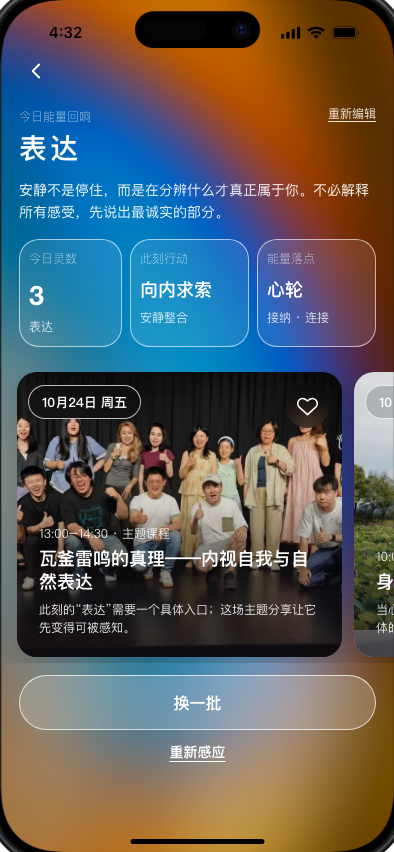
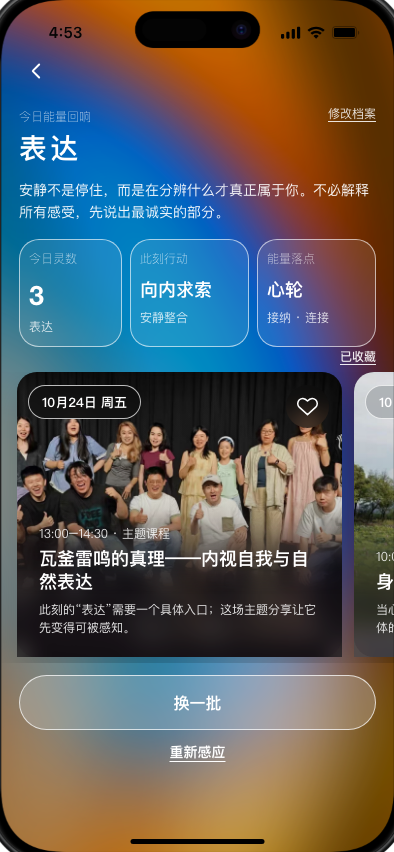
Refine result actions and recommendation rotation

diff --git a/haf-energy-journey-h5/src/Prototype.tsx b/haf-energy-journey-h5/src/Prototype.tsx
@@ -550,6 +550,14 @@ function recommendCourses(
     ? 1
     : insight.poles.active > insight.poles.calm ? 0.5 : 0;
   const targetDuration = targetIntensity === 1 ? 90 : targetIntensity === 0.5 ? 60 : 30;
+  const freshCourses = activeCourses.filter((course) => !recentIds.has(course.course_id));
+  const recentOrder = new Map([...recentIds].map((id, index) => [id, index]));
+  const rolloverCourses = activeCourses
+    .filter((course) => recentIds.has(course.course_id))
+    .sort((a, b) => (recentOrder.get(a.course_id) ?? 0) - (recentOrder.get(b.course_id) ?? 0));
+  const candidateCourses = freshCourses.length >= 3
+    ? freshCourses
+    : [...freshCourses, ...rolloverCourses.slice(0, Math.max(12, 3 - freshCourses.length))];
   const scoreCourse = (course: CatalogCourse) => {
     const primaryMatch = course.chakra_tags.includes(insight.primaryChakra.id) ? 1 : 0;
     const secondaryMatch = course.chakra_tags.includes(insight.secondaryChakra.id) ? 1 : 0;
@@ -572,7 +580,7 @@ function recommendCourses(
     const recencyFit = recentIds.has(course.course_id) ? 0 : 1;
     return 0.35 * chakraScore + 0.25 * compassScore + 0.2 * numerologyScore + 0.1 * practiceFit + 0.1 * recencyFit;
   };
-  const candidates = activeCourses.map((course) => ({ course, score: scoreCourse(course) }));
+  const candidates = candidateCourses.map((course) => ({ course, score: scoreCourse(course) }));
   const selected: CatalogCourse[] = [];
   while (selected.length < 2 && candidates.length) {
     const ranked = candidates.map((candidate) => {
@@ -619,6 +627,12 @@ function recommendCourses(
       image: course.cover_asset,
     };
   });
+}
+
+function appendCourseHistory(history: Iterable<string>, courseIds: string[]) {
+  const currentIds = new Set(courseIds);
+  const next = [...[...history].filter((id) => !currentIds.has(id)), ...courseIds];
+  return next.slice(-activeCourses.length);
 }
 
 function loadLocal<T>(key: string, fallback: T): T {
@@ -1147,11 +1161,12 @@ function ResultScreen() {
   );
 
   useEffect(() => {
-    window.localStorage.setItem(recentCourseStorageKey, JSON.stringify(orderedCourses.map((course) => course.id)));
-  }, [orderedCourses]);
+    const history = appendCourseHistory(recentCourseIds, orderedCourses.map((course) => course.id));
+    window.localStorage.setItem(recentCourseStorageKey, JSON.stringify(history));
+  }, [orderedCourses, recentCourseIds]);
 
   const refreshCourses = () => {
-    setRecentCourseIds((previous) => new Set([...previous, ...orderedCourses.map((course) => course.id)]));
+    setRecentCourseIds((previous) => new Set(appendCourseHistory(previous, orderedCourses.map((course) => course.id))));
     setBatch((value) => value + 1);
   };
 
@@ -1162,8 +1177,7 @@ function ResultScreen() {
           <img src="/assets/haf/visual-refresh/back-chevron.svg" alt="" />
         </button>
         <div className="result-top-actions">
-          <button onClick={() => flow.push(makeScreen("profile"))}>重新编辑</button>
-          {favorites.length > 0 && <button onClick={() => flow.push(makeScreen("favorites"))}>已收藏 {favorites.length}</button>}
+          <button onClick={() => flow.push(makeScreen("profile"))}>修改档案</button>
         </div>
         <section className="result-insight">
           <div className="result-copy">
@@ -1179,13 +1193,17 @@ function ResultScreen() {
         </section>
         <section className="recommendations">
           <h2 className="visually-hidden">此刻与你契合的体验</h2>
+          <button className="recommendation-saved" onClick={() => flow.push(makeScreen("favorites"))}>
+            已收藏{favorites.length > 0 ? ` ${favorites.length}` : ""}
+          </button>
           <Carousel className="course-rail" contentClassName="course-track" ariaLabel="此刻与你契合的体验">
             {orderedCourses.map((course) => {
               const saved = favorites.includes(course.id);
               return (
-                <article className="course-card" data-testid="course-card" key={course.id}>
+                <article className="course-card" data-testid="course-card" data-course-id={course.id} key={course.id}>
                   <img className="course-visual" src={course.image} alt="" />
                   <div className="course-shade" aria-hidden="true" />
+                  <div className="course-copy-haze" aria-hidden="true" />
                   <small className="course-date-pill">{course.dateLabel}</small>
                   <button className={`course-heart ${saved ? "saved" : ""}`} onClick={() => toggleFavorite(course.id)} aria-label={`${saved ? "取消收藏" : "收藏"}${course.title}`}>
                     <img src="/assets/haf/visual-refresh/heart-outline.svg" alt="" />

diff --git a/haf-energy-journey-h5/src/prototype.css b/haf-energy-journey-h5/src/prototype.css
@@ -190,11 +190,13 @@ button { font: inherit; -webkit-tap-highlight-color: transparent; }
 .energy-facets > span:first-child strong { font-family: "Graphik", "Helvetica Neue", Arial, sans-serif; font-size: 27px; }
 .energy-facets em { margin-top: 9px; color: rgba(255,255,255,.78); font-size: 12px; }
 .recommendations { position: relative; z-index: 4; height: 285px; flex: 0 0 285px; margin-top: 8px; }
+.recommendation-saved { position: absolute; z-index: 8; top: -24px; right: 18px; padding: 0; border: 0; background: transparent; color: rgba(255,255,255,.9); font-size: 12px; font-weight: 420; text-decoration: underline; text-underline-offset: 3px; }
 .course-rail { width: 100%; }
 .course-track { display: flex; gap: 12px; padding: 0 16px 6px; }
 .course-card { position: relative; flex: 0 0 325px; height: 285px; padding: 0; box-sizing: border-box; overflow: hidden; border: 0; border-radius: 20px; background: rgba(23,29,35,.52); box-shadow: 0 16px 34px rgba(0,0,0,.2); }
 .course-card > .course-visual { position: absolute; inset: 0; width: 100%; height: 100%; border-radius: 0; object-fit: cover; }
 .course-shade { position: absolute; inset: 0; background: linear-gradient(to bottom, rgba(0,0,0,.02) 22%, rgba(0,0,0,.12) 43%, rgba(19,15,20,.76) 100%); }
+.course-copy-haze { position: absolute; z-index: 2; right: 0; bottom: 0; left: 0; height: 49%; background: rgba(31,24,31,.18); box-shadow: 0 -24px 38px rgba(224,218,217,.11); backdrop-filter: blur(11px) saturate(.78); -webkit-backdrop-filter: blur(11px) saturate(.78); -webkit-mask-image: linear-gradient(to bottom, transparent 0%, rgba(0,0,0,.72) 28%, #000 55%); mask-image: linear-gradient(to bottom, transparent 0%, rgba(0,0,0,.72) 28%, #000 55%); }
 .course-date-pill { position: absolute; z-index: 3; top: 13px; left: 11px; padding: 7px 13px; border: 1px solid rgba(255,255,255,.72); border-radius: 999px; background: rgba(0,0,0,.16); color: white; font-size: 13px; font-weight: 520; backdrop-filter: blur(12px); }
 .course-heart { position: absolute; z-index: 4; top: 13px; right: 13px; width: 43px; height: 43px; padding: 11px; border: 0; border-radius: 50%; background: rgba(0,0,0,.18); display: grid; place-items: center; backdrop-filter: blur(12px); }
 .course-heart.saved { background: rgba(183,92,95,.74); box-shadow: 0 0 18px rgba(255,147,143,.32); }

diff --git a/haf-energy-journey-h5/design-qa.md b/haf-energy-journey-h5/design-qa.md
@@ -12,12 +12,14 @@
 - Pass 1: normalized the old 700px embedded layout against the 393 × 852 sources. Found the former top/bottom bands, a harsh background crop, and a visible custom-cursor artifact in captures.
 - Pass 2: converted every route to an edge-to-edge 393 × 852 module, added platform safe-area spacing, moved the source raster to the Figma-like blue/orange crop, and moved the screenshot pointer outside the phone.
 - Pass 3: compared both supplied references, both implementation captures, and the compact-card screenshot together. Reduced recommendation cards from 330px to 285px and moved both result actions upward, leaving more than 70px below `重新感应` for iOS system actions.
+- Pass 4: compared the focused compact-card reference with the revised 393 × 852 result capture. Added a softened, blurred image haze below the card copy, moved `已收藏` to the recommendation region's upper-right edge, renamed the profile action to `修改档案`, and verified five consecutive recommendation batches without a repeated course.
 
 ## Final findings
 
 - No open P0, P1, or P2 visual findings.
 - Profile: title, date/time/gender/city groups, back affordance, and primary CTA align to the supplied vertical rhythm. The full-bleed raster continues beneath the protected status and home-indicator chrome.
 - Result: energy hierarchy, three glass facets, horizontal three-card rail, actions, and bottom safety buffer are complete. The card image uses the real selected course catalog cover rather than the static Figma demonstration photo; this is an intentional product-data constraint.
+- Focused card region: metadata, title, and fit reason remain readable over the new soft-focus lower-image treatment; the haze has no hard asset boundary and stays clipped by the real card image.
 - The protected runtime overlays live iOS status chrome and the home indicator, while the source PNGs omit those system elements. This is an intentional runtime difference, not an app-owned blank band.
 - Three `ERR_CONNECTION_REFUSED` messages remain in the isolated visual capture because the optional local analytics/AI service on port 4174 was not running. Deterministic fallbacks completed the journey and all visible interactions; the errors do not affect layout or behavior.
 
@@ -27,7 +29,8 @@
 - Profile controls and primary CTA — passed.
 - Exactly three catalog-backed course cards — passed.
 - Horizontal carousel drag and favorite state — passed.
-- `换一批`, `重新感应`, and `重新编辑` — passed.
+- `修改档案`, relocated `已收藏`, `换一批`, and `重新感应` — passed.
+- Recommendation novelty: 15 unique courses across five consecutive batches — passed.
 - Compact card height: 285px — passed.
 - Bottom action buffer: at least 70px — passed.
 - Keyboard-aware city input and semantic button labels remain present.

diff --git a/haf-energy-journey-h5/AGENTS.md b/haf-energy-journey-h5/AGENTS.md
@@ -33,6 +33,7 @@
 - Keep the three result facets semantically independent: numerology is the daily theme, the compass is the current inward/outward and calm/active position, and the chakra card is the projected energy landing. Do not repeat a synthesized keyword across these source cards.
 - The recommender still returns exactly three catalog records in a horizontal carousel, but the visible narrative introduces them as `此刻与你契合的体验`, not `3 节课`. Every card includes a small real image, course name, current-energy fit reason, duration/format, and a bookmark action. Use natural modality phrases such as `这段冥想练习` or `这场声音体验` in reasons; do not show price or purchase pressure.
 - In the full-screen iOS result layout, keep recommendation cards compact enough that `换一批` and `重新感应` sit above the bottom system-action region; the full-bleed background may continue behind the reserved buffer.
+- The result action is labeled `修改档案`; the `已收藏` entry belongs at the upper-right edge of the recommendation area rather than beside the energy heading. Course-card copy sits over a soft blurred image haze, and `换一批` must exhaust unseen catalog courses before recycling older results.
 - On real-course cards, the small eyebrow displays the course date and the metadata line displays the session start-end time plus format; do not label the card body `今日契合点` or substitute duration for the real schedule. The three fit reasons should deliberately use different grounded lenses—daily numerology, chakra evidence, and compass direction—so the cards do not repeat one template.
 - Keep the timing semantics distinct: numerology and the upper result are the user's `今日能量`, while course reasons express `此刻契合`. Never imply that a recommended course must be taken today or will stop fitting tomorrow; the user may save or purchase it now and enter the experience later.
 - The active working H5 currently uses the normalized HAF 2025 API catalog as a clearly labeled historical recall test; the frozen V3 snapshot remains untouched. In this test, user numerology still uses the current natural date, while course availability is evaluated at the 2025 event-opening checkpoint so the historical catalog remains playable. Current MVP availability requires only presence in the latest successful complete list and at least one session whose end time has not passed; inventory, goods ID, and purchase link are observed but do not filter recommendations yet.
